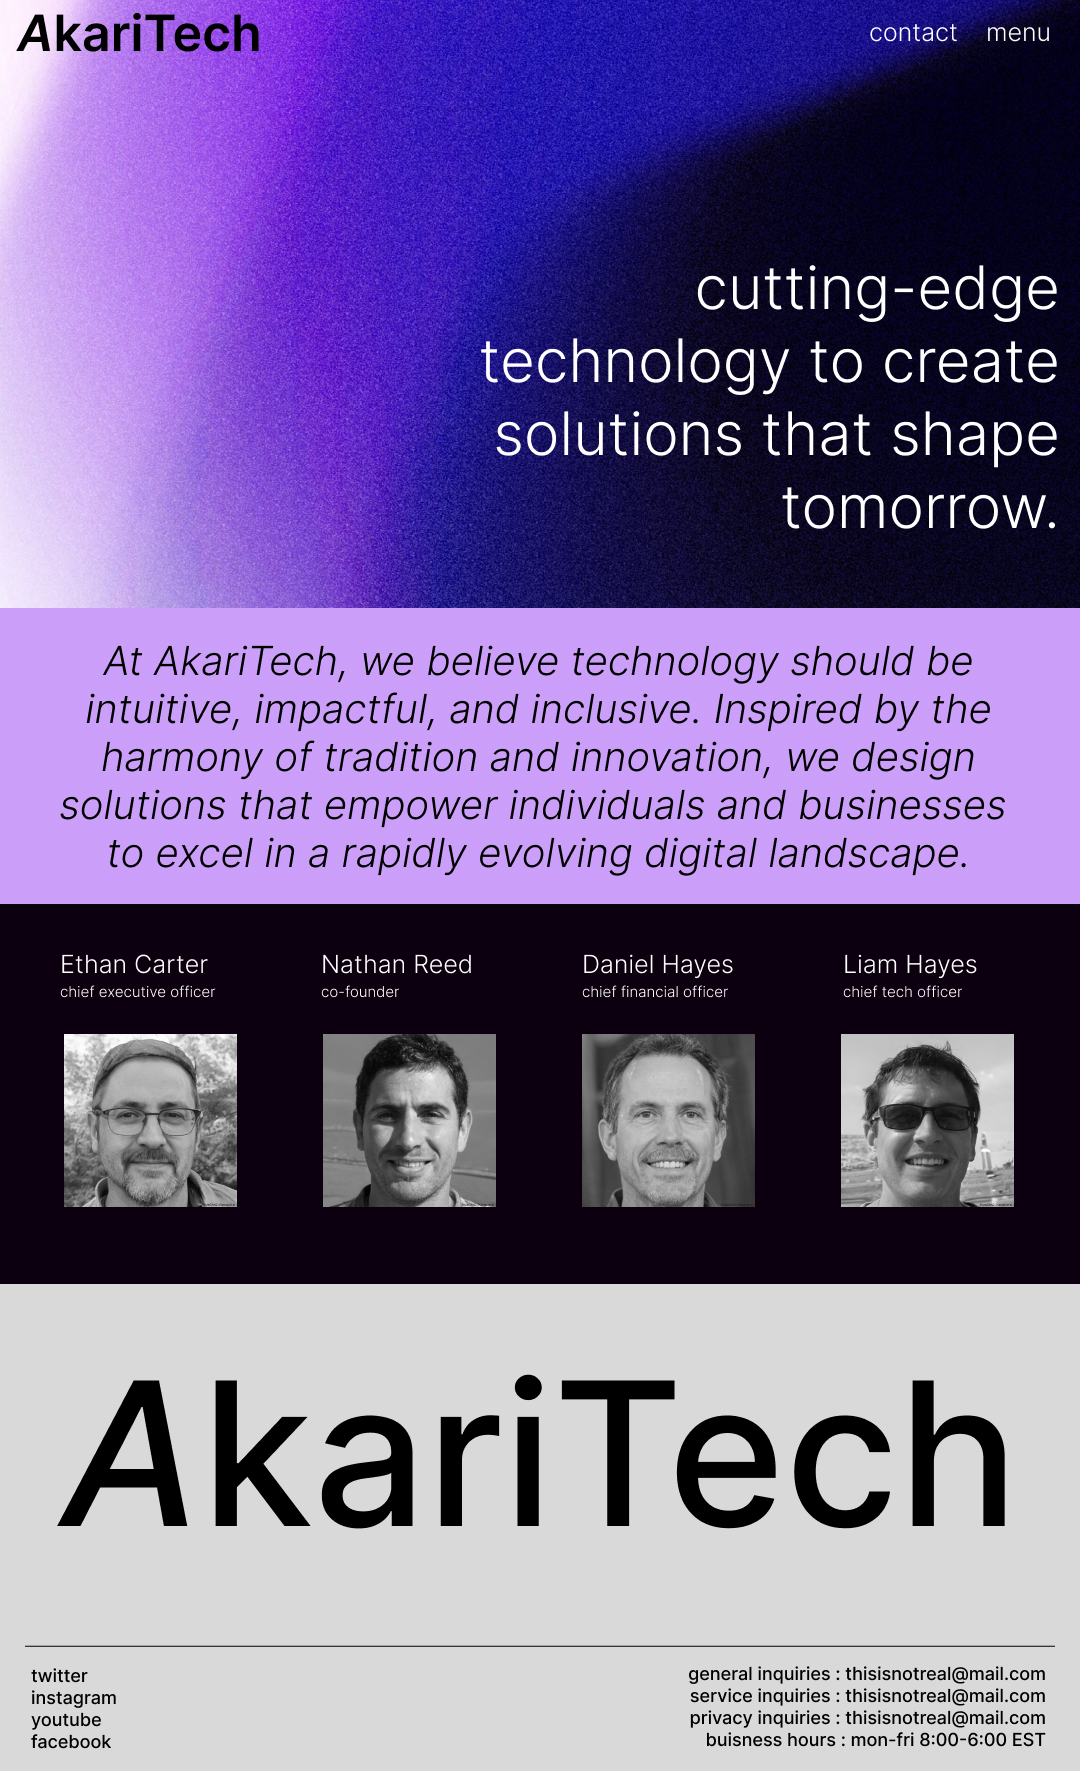
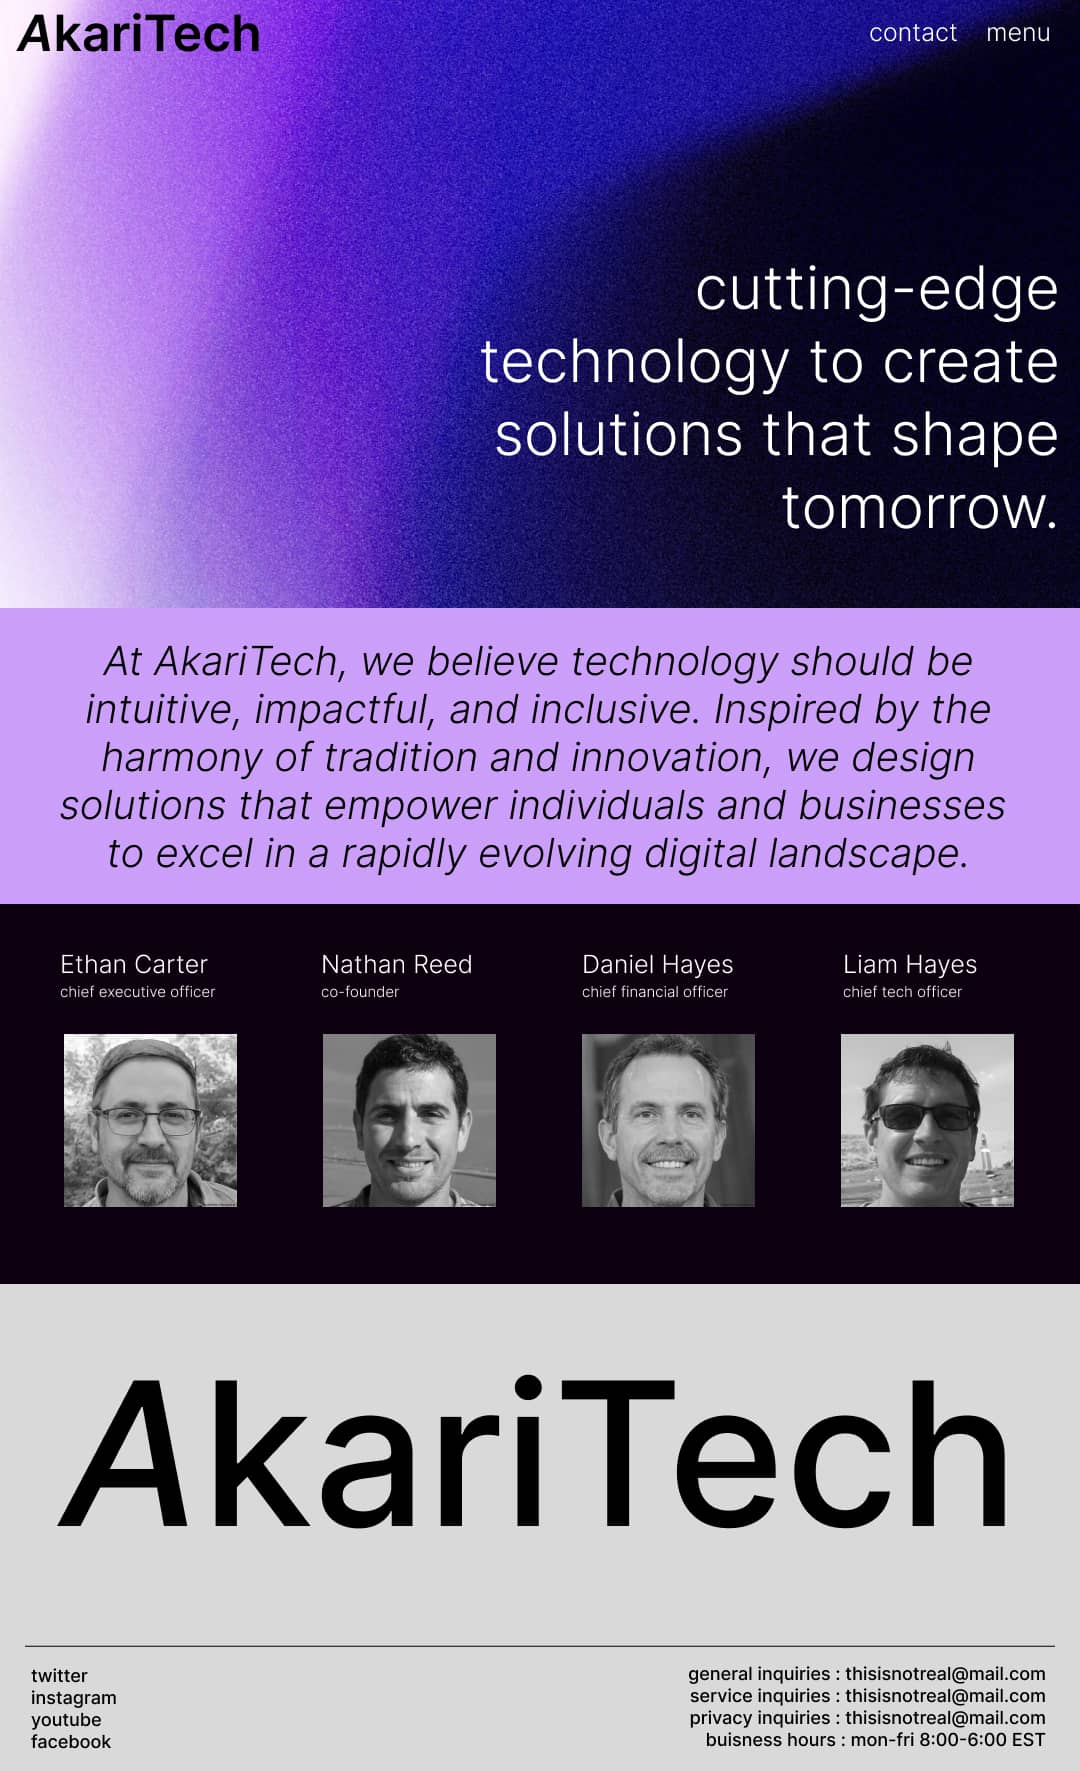
image optimization and removed splittype

diff --git a/Portfolio/index.js b/Portfolio/index.js
@@ -1,11 +1,10 @@
 const lenis = new Lenis({ autoRaf: true, });
 lenis.on('scroll', (e) => { console.log(e); });
 
-const lefta = new SplitType("#left");
-const righta = new SplitType("#right");
-const chatura = new SplitType("#chatur");
-const maila = new SplitType("#mail");
-gsap.from(".char",{y: 70,duration:0.8 ,ease:"power4.out",delay:0.4})
+gsap.from("#left",{y: 70,duration:0.8 ,ease:"power4.out",delay:0.4})
+gsap.from("#chatur",{y: 70,duration:0.8 ,ease:"power4.out",delay:0.4})
+gsap.from("#right",{y: 70,duration:0.8 ,ease:"power4.out",delay:0.4})
+gsap.from("#mail",{y: 70,duration:0.8 ,ease:"power4.out",delay:0.4})
 
 const chatur = document.getElementById("chatur");
 const mail = document.getElementById("mail");

diff --git a/Portfolio/index.html b/Portfolio/index.html
@@ -206,8 +206,6 @@
         </div>
     </div>
 
-    <script src="https://unpkg.com/split-type"></script>
-
     <script src="https://cdnjs.cloudflare.com/ajax/libs/gsap/3.12.5/gsap.min.js"></script>
     <script src="https://cdnjs.cloudflare.com/ajax/libs/gsap/3.12.5/ScrollTrigger.min.js"></script>
 

diff --git a/Portfolio/index.css b/Portfolio/index.css
@@ -93,6 +93,8 @@ h1 {
     max-height: 75vh;
 }
 #svg{
+    background-color: #0b0b0b;
+    z-index:    10;
     display: flex;
     justify-content: center;
 }
